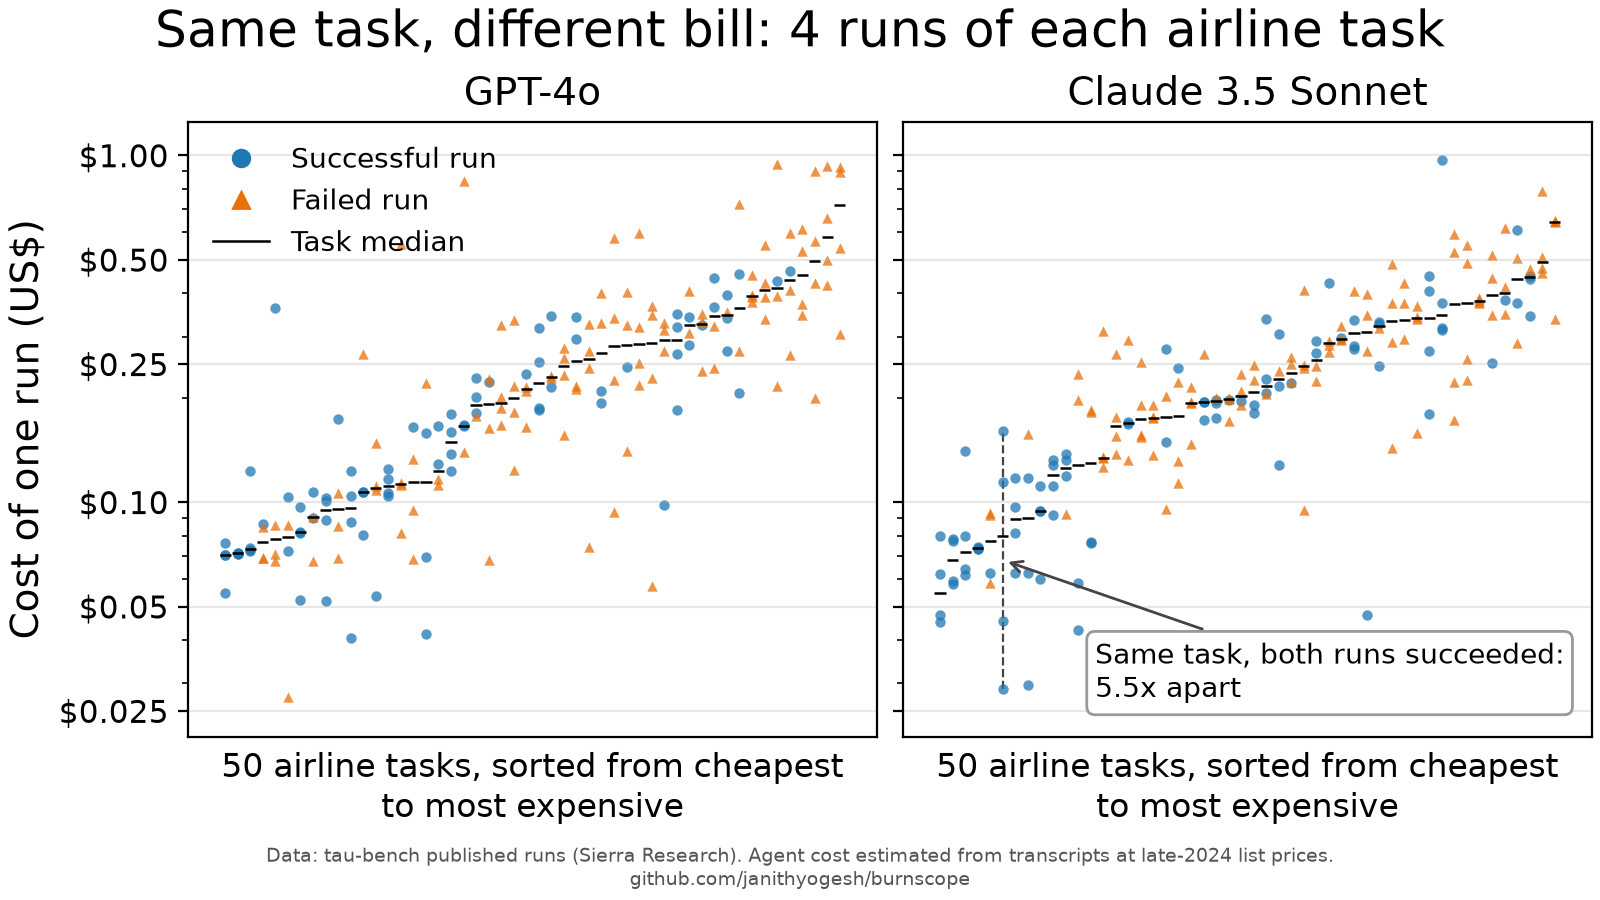
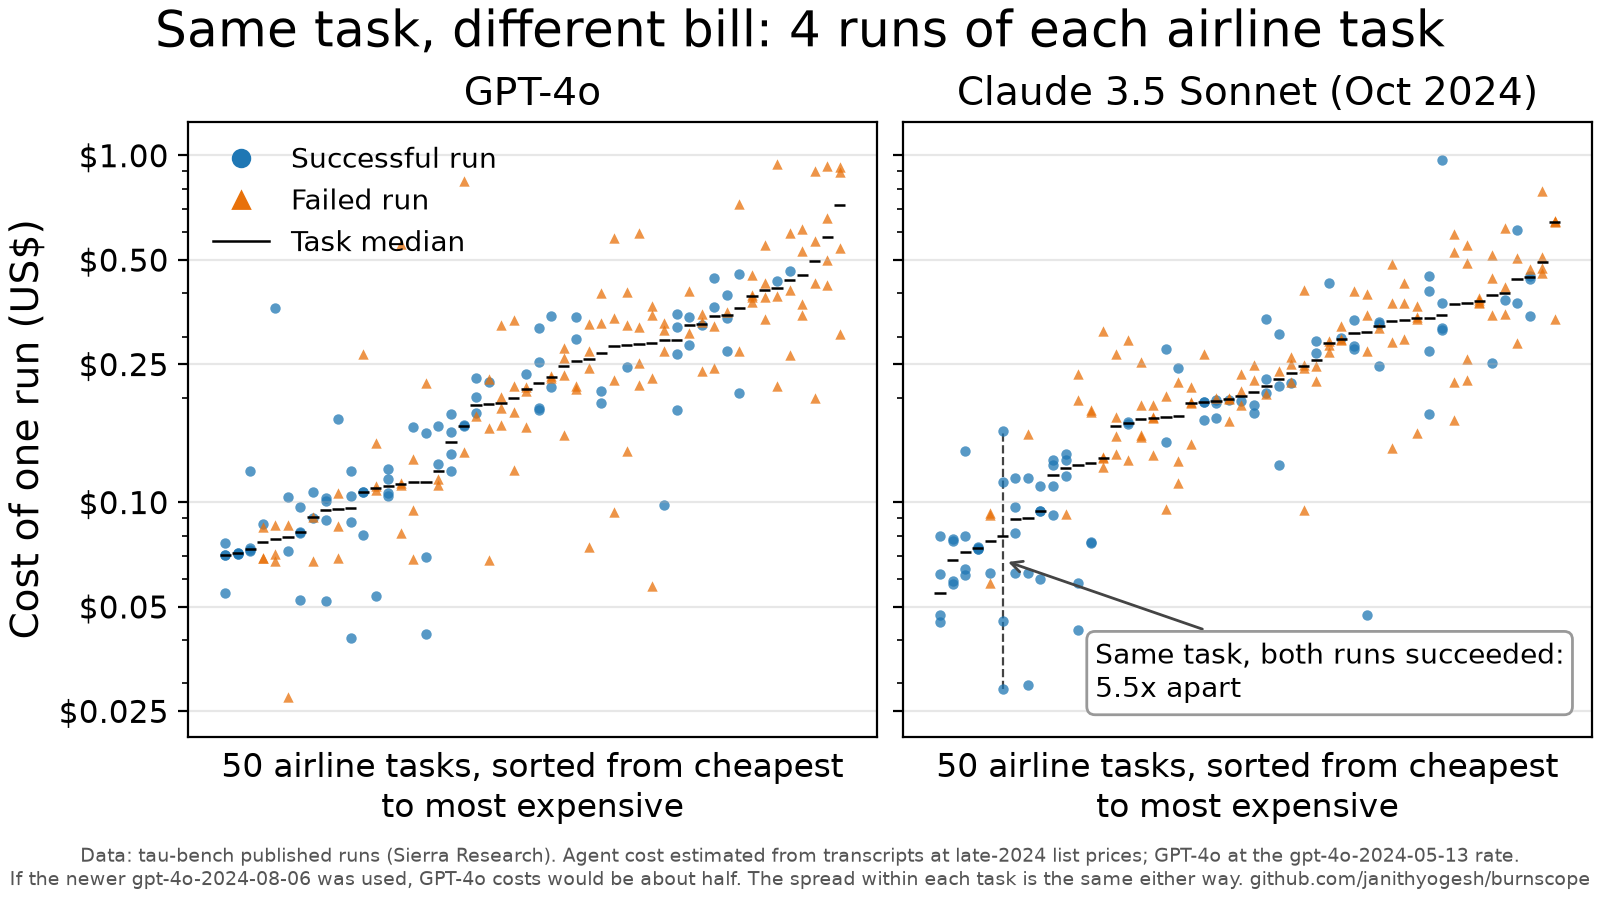
feat: date the Claude panel and state the GPT-4o price assumption in the blog chart footer

Changed region(s): [[0.0, 0.9333, 1.0, 0.9956], [0.5938, 0.0622, 0.9688, 0.1244]]

diff --git a/experiments/taubench-reanalysis/analyze.py b/experiments/taubench-reanalysis/analyze.py
@@ -619,7 +619,9 @@ def fig_flip(results: Sequence[FlipResult], path: Path) -> None:
 
 BLOG_SOURCE_NOTE = (
     "Data: tau-bench published runs (Sierra Research). Agent cost estimated from transcripts "
-    "at late-2024 list prices.\ngithub.com/janithyogesh/burnscope"
+    "at late-2024 list prices; GPT-4o at the gpt-4o-2024-05-13 rate.\n"
+    "If the newer gpt-4o-2024-08-06 was used, GPT-4o costs would be about half. "
+    "The spread within each task is the same either way. github.com/janithyogesh/burnscope"
 )
 BLOG_DOLLAR_TICKS = [0.025, 0.05, 0.10, 0.25, 0.50, 1.00]
 BLOG_SUCCESS = {"color": "#1f77b4", "marker": "o", "label": "Successful run"}
@@ -662,7 +664,7 @@ def fig_blog(runs: Sequence[Run], path: Path) -> None:
     """Simplified airline version of fig 1 for a general audience (1600 x 900 px)."""
     fig = Figure(figsize=(8, 4.5), layout="constrained", facecolor="white")
     axes = fig.subplots(1, 2, sharey=True)
-    panels = ((GPT_VIEW, "GPT-4o"), (CLAUDE_MATCHED, "Claude 3.5 Sonnet"))
+    panels = ((GPT_VIEW, "GPT-4o"), (CLAUDE_MATCHED, "Claude 3.5 Sonnet (Oct 2024)"))
     for ax, (view, title) in zip(axes, panels, strict=True):
         groups = sorted(
             by_task(runs, view, "airline").values(),
